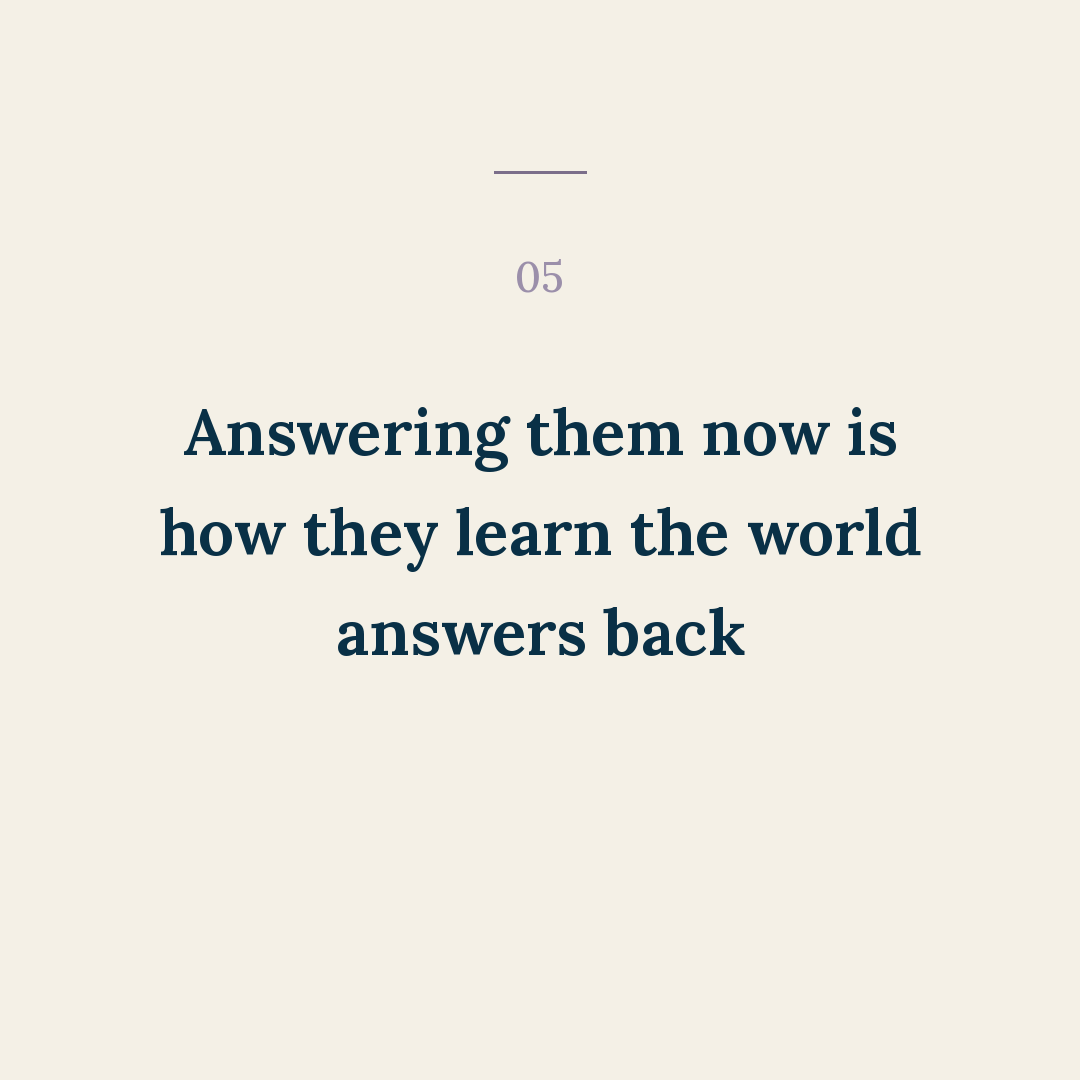
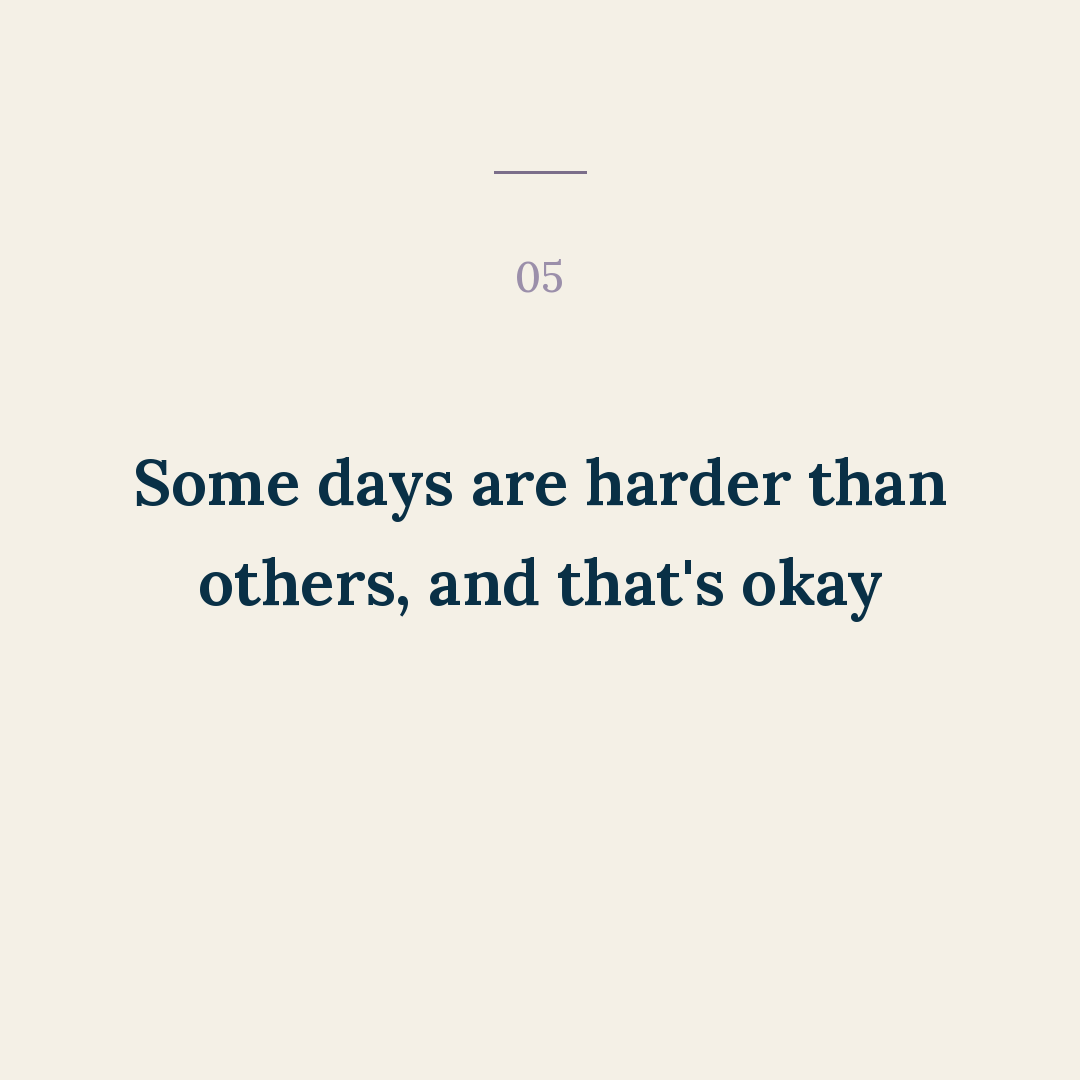
Add 64-not-trying-to-manipulate-you (64 - Not Trying To Manipulate You)

Changed region(s): [[0.1222, 0.3667, 0.8861, 0.6111]]

diff --git a/posts/64-not-trying-to-manipulate-you/slides.md b/posts/64-not-trying-to-manipulate-you/slides.md
@@ -19,9 +19,14 @@ Your newborn isn't trying to manipulate you…
 02  Crying is the only sentence they have, and it's pointed at the one they trust
 03  Wanting to be held isn't a tactic, it's most of what they're for right now
 04  The intensity is about how new they are, not about anything you did
-05  Answering them now is how they learn the world answers back
+05  Some days are harder than others, and that's okay
 
 ## Closer (share)
 Send this to a mom who could use a kinder voice today
 
 Rendered slide-1..slide-7 (weight 650, BG_CREAM, cover byline on).
+
+REVISED 2026-08-24 per Ben's review: item 05 replaced. It was *"Answering them now is how they learn
+the world answers back"* — a developmental claim dressed as reassurance, and the one item in the set
+that told her what her response was DOING rather than letting her off the hook. His line ends the
+post on permission instead of mechanism, which is the register this lane is supposed to be in.
